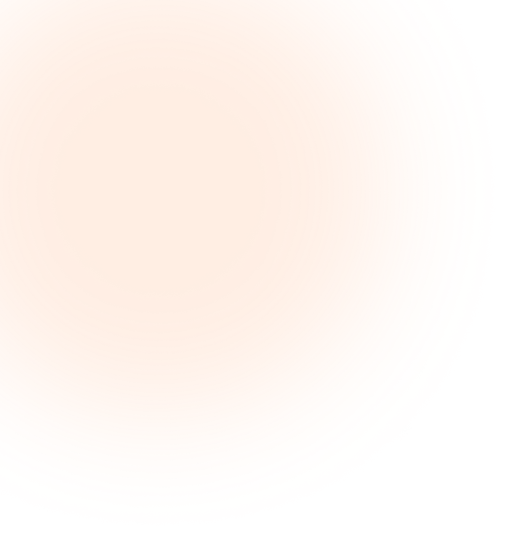
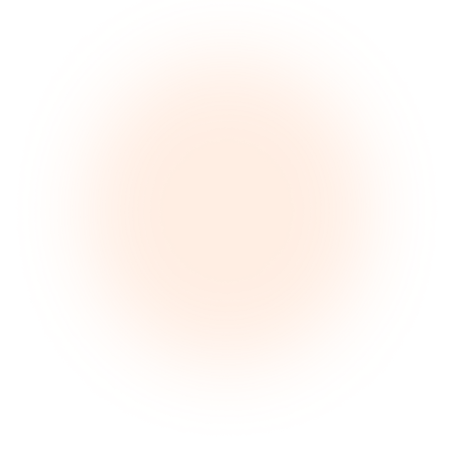
added portfolio section

Changed region(s): [[0.0, 0.0925, 0.2467, 0.4934]]

diff --git a/index.html b/index.html
@@ -20,7 +20,7 @@
 
     <body class="position-relative">
         <img
-            class="position-absolute top-0 start-0 z-n1"
+            class="position-absolute top-75-left-80 z-n1"
             src="./img/blur_ellipse_1.png"
             alt="blur_ellipse_1"
         />
@@ -86,7 +86,7 @@
         <!-- Hero Section -->
         <div class="container-fluid px-0 py-5 position-relative" id="home">
             <img
-                class="position-absolute top-100px start-0 z-n1"
+                class="position-absolute top-100px-left-40px z-n1"
                 src="./img/blur_ellipse_2.png"
                 alt="blur_ellipse_1"
             />
@@ -95,7 +95,7 @@
                 class="row my-5 mx-0 align-items-center justify-content-between g-0"
             >
                 <div
-                    class="col-12 col-lg-5 position-relative mb-5 pb-5 ps-5 me-5"
+                    class="col-12 col-xl-5 position-relative mb-5 pb-5 ps-5 me-5"
                 >
                     <h1 class="large-text text-dark fa-nexa-heavy text-nowrap">
                         CAPTURING <br />
@@ -121,7 +121,7 @@
                 </div>
 
                 <div
-                    class="col-12 col-xl-6 d-flex flex-column gap-5 align-items-center"
+                    class="col-12 col-xl-6 ps-5 d-flex flex-column gap-5 align-items-center"
                 >
                     <div class="d-flex overflow-auto gap-5">
                         <img
@@ -135,7 +135,7 @@
                             alt="photography_1"
                         />
                         <img
-                            class="rounded-4 img-fluid object-fit-cover h-100"
+                            class="rounded-4 img-fluid object-fit-cover h-100 me-5"
                             src="./img/photography_1.jpg"
                             alt="photography_1"
                         />
@@ -151,25 +151,27 @@
         </div>
 
         <!-- About us section -->
-        <div class="container-fluid p-5 bg-secondary-subtle" id="about">
+        <div class="container-fluid py-5 bg-secondary-subtle" id="about">
             <div class="row justify-content-center gap-5">
-                <div class="col-12 col-lg-auto d-flex gap-4 py-1">
+                <div class="col-12 col-lg-auto d-flex justify-content-center gap-4 py-1">
                     <div>
                         <img
-                            class="rounded-4 h-100"
+                            class="rounded-4 h-100 img-fluid"
                             src="./img/photography_3.jpg"
                             alt=""
                         />
                     </div>
 
-                    <div class="d-flex flex-column justify-content-between">
+                    <div
+                        class="d-flex flex-column justify-content-center gap-4"
+                    >
                         <img
-                            class="rounded-4"
+                            class="rounded-4 img-fluid"
                             src="./img/photography_4.jpg"
                             alt=""
                         />
                         <img
-                            class="rounded-4"
+                            class="rounded-4 img-fluid"
                             src="./img/photography_5.jpg"
                             alt=""
                         />
@@ -212,6 +214,127 @@
                     >
                         See Our Portfolio
                     </button>
+                </div>
+            </div>
+        </div>
+
+        <!-- Portfolio section -->
+        <div class="container-fluid py-5 px5 position-relative">
+            <img
+                class="position-absolute end-0"
+                src="./img/blur_ellipse_1.png"
+                alt="blur_ellipse_1"
+            />
+            <img
+                class="position-absolute start-0 bottom-0"
+                src="./img/blur_ellipse_2.png"
+                alt="blur_ellipse_2"
+            />
+            <div class="row py-5 mt-5 text-center">
+                <h2 class="medium-text fa-nexa-heavy mb-5">
+                    Our
+                    <span class="fa-nexa-heavy text-lavender">Portfolio</span>
+                </h2>
+
+                <ul
+                    class="navbar nav w-75 mx-auto bg-white rounded-3 shadow py-2 px-5 fs-5 fw-medium d-flex flex-column flex-sm-row text-center gap-0"
+                >
+                    <li class="nav-item">
+                        <a class="nav-link text-dark" href="#">All</a>
+                    </li>
+                    <li class="nav-item">
+                        <a
+                            class="nav-link text-lavender text-decoration-underline"
+                            href="#"
+                            >Children's</a
+                        >
+                    </li>
+                    <li class="nav-item">
+                        <a class="nav-link text-dark" href="#">Portraits</a>
+                    </li>
+                    <li class="nav-item">
+                        <a class="nav-link text-dark" href="#">Family</a>
+                    </li>
+                    <li class="nav-item">
+                        <a class="nav-link text-dark" href="#"
+                            >Other Photography</a
+                        >
+                    </li>
+                </ul>
+
+                <div class="img-gallery py-2 mt-5 mx-auto">
+                    <div class="column">
+                        <div class="photo">
+                            <img class="shadow"
+                                src="https://plus.unsplash.com/premium_photo-1664355810282-b3fc6a06eef5?w=500&auto=format&fit=crop&q=60&ixlib=rb-4.0.3&ixid=M3wxMjA3fDB8MHxzZWFyY2h8MXx8Y2hpbGRyZW58ZW58MHx8MHx8fDA%3D"
+                                alt=""
+                            />
+                        </div>
+                        <div class="photo">
+                            <img class="shadow"
+                                src="https://images.unsplash.com/photo-1658801956904-43841e89d831?w=500&auto=format&fit=crop&q=60&ixlib=rb-4.0.3&ixid=M3wxMjA3fDB8MHxzZWFyY2h8Mnx8Y2hpbGRyZW58ZW58MHx8MHx8fDA%3D"
+                                alt=""
+                            />
+                        </div>
+                        <div class="photo">
+                            <img class="shadow"
+                                src="https://images.unsplash.com/photo-1540479859555-17af45c78602?w=500&auto=format&fit=crop&q=60&ixlib=rb-4.0.3&ixid=M3wxMjA3fDB8MHxzZWFyY2h8NHx8Y2hpbGRyZW58ZW58MHx8MHx8fDA%3D"
+                                alt=""
+                            />
+                        </div>
+                        <div class="photo">
+                            <img class="shadow"
+                                src="https://plus.unsplash.com/premium_photo-1663126299834-b8f22641f3c0?w=500&auto=format&fit=crop&q=60&ixlib=rb-4.0.3&ixid=M3wxMjA3fDB8MHxzZWFyY2h8MTd8fGNoaWxkcmVufGVufDB8fDB8fHww"
+                                alt=""
+                            />
+                        </div>
+                    </div>
+                    <div class="column">
+                        <div class="photo">
+                            <img class="shadow"
+                                src="https://images.unsplash.com/photo-1664990594667-9bd4c60cbcfb?w=500&auto=format&fit=crop&q=60&ixlib=rb-4.0.3&ixid=M3wxMjA3fDB8MHxzZWFyY2h8M3x8Y2hpbGRyZW58ZW58MHx8MHx8fDA%3D"
+                                alt=""
+                            />
+                        </div>
+                        <div class="photo">
+                            <img class="shadow"
+                                src="https://images.unsplash.com/photo-1476234251651-f353703a034d?w=500&auto=format&fit=crop&q=60&ixlib=rb-4.0.3&ixid=M3wxMjA3fDB8MHxzZWFyY2h8MjB8fGNoaWxkcmVufGVufDB8fDB8fHww"
+                                alt=""
+                            />
+                        </div>
+                        <div class="photo">
+                            <img class="shadow"
+                                src="https://images.unsplash.com/photo-1526234577630-77b606b3421b?w=500&auto=format&fit=crop&q=60&ixlib=rb-4.0.3&ixid=M3wxMjA3fDB8MHxzZWFyY2h8N3x8Y2hpbGRyZW58ZW58MHx8MHx8fDA%3D"
+                                alt=""
+                            />
+                        </div>
+                    </div>
+                    <div class="column">
+                        <div class="photo">
+                            <img class="shadow"
+                                src="https://images.unsplash.com/photo-1526834527924-83a042ea7711?w=500&auto=format&fit=crop&q=60&ixlib=rb-4.0.3&ixid=M3wxMjA3fDB8MHxzZWFyY2h8OHx8Y2hpbGRyZW58ZW58MHx8MHx8fDA%3D"
+                                alt=""
+                            />
+                        </div>
+                        <div class="photo">
+                            <img class="shadow"
+                                src="https://plus.unsplash.com/premium_photo-1661274181892-dbe22a647ba9?w=500&auto=format&fit=crop&q=60&ixlib=rb-4.0.3&ixid=M3wxMjA3fDB8MHxzZWFyY2h8OXx8Y2hpbGRyZW58ZW58MHx8MHx8fDA%3D"
+                                alt=""
+                            />
+                        </div>
+                        <div class="photo">
+                            <img class="shadow"
+                                src="https://images.unsplash.com/photo-1599690352319-c3e8f571ddb6?w=500&auto=format&fit=crop&q=60&ixlib=rb-4.0.3&ixid=M3wxMjA3fDB8MHxzZWFyY2h8MTB8fGNoaWxkcmVufGVufDB8fDB8fHww"
+                                alt=""
+                            />
+                        </div>
+                        <div class="photo">
+                            <img class="shadow"
+                                src="https://images.unsplash.com/photo-1542810634-71277d95dcbb?w=500&auto=format&fit=crop&q=60&ixlib=rb-4.0.3&ixid=M3wxMjA3fDB8MHxzZWFyY2h8MTh8fGNoaWxkcmVufGVufDB8fDB8fHww"
+                                alt=""
+                            />
+                        </div>
+                    </div>
                 </div>
             </div>
         </div>

diff --git a/style.css b/style.css
@@ -15,12 +15,16 @@
 
 :root {
     --orange-clr: rgb(254, 140, 69);
-    --orange-active-clr: rgb(214, 121, 62);
     --lavender-clr: rgb(138, 71, 246);
+}
+
+::-webkit-scrollbar {
+    display: none;
 }
 
 html {
     scroll-behavior: smooth;
+    scrollbar-width: none;
 }
 
 body {
@@ -56,6 +60,11 @@ body {
     }
 }
 
+.top-75-left-80 {
+    top: -75px;
+    left: -80px;
+}
+
 .nav-link-hover {
     &:hover {
         color: var(--orange-clr) !important;
@@ -71,11 +80,11 @@ body {
 }
 
 .large-text {
-    font-size: 74px;
+    font-size: 50px;
 }
 
 .medium-text {
-    font-size: 48px;
+    font-size: 40px;
 }
 
 .fa-nexa {
@@ -118,6 +127,27 @@ body {
     scale: 1.1;
 }
 
-.top-100px {
+.top-100px-left-40px {
     top: 100px;
+    left: -40px;
+}
+
+.img-gallery {
+    display: flex;
+    justify-content: center;
+    gap: 20px;
+}
+
+.column {
+    display: flex;
+    flex-direction: column;
+    gap: 20px;
+    column-count: 3;
+}
+
+.photo img {
+    width: 100%;
+    height: 100%;
+    border-radius: 5px;
+    object-fit: cover;
 }
